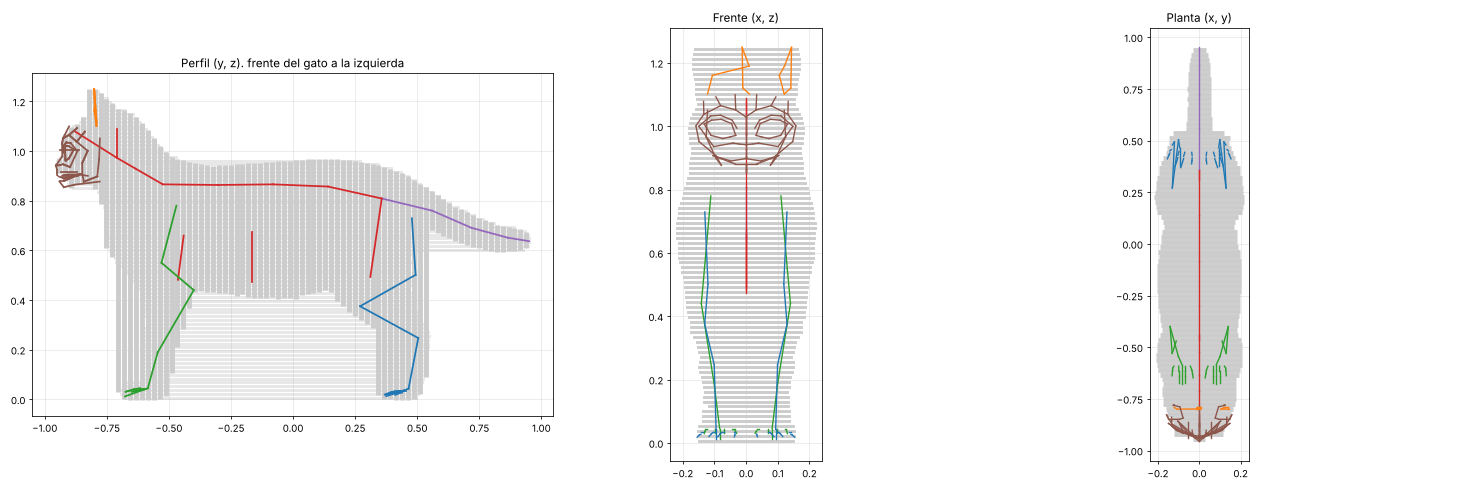
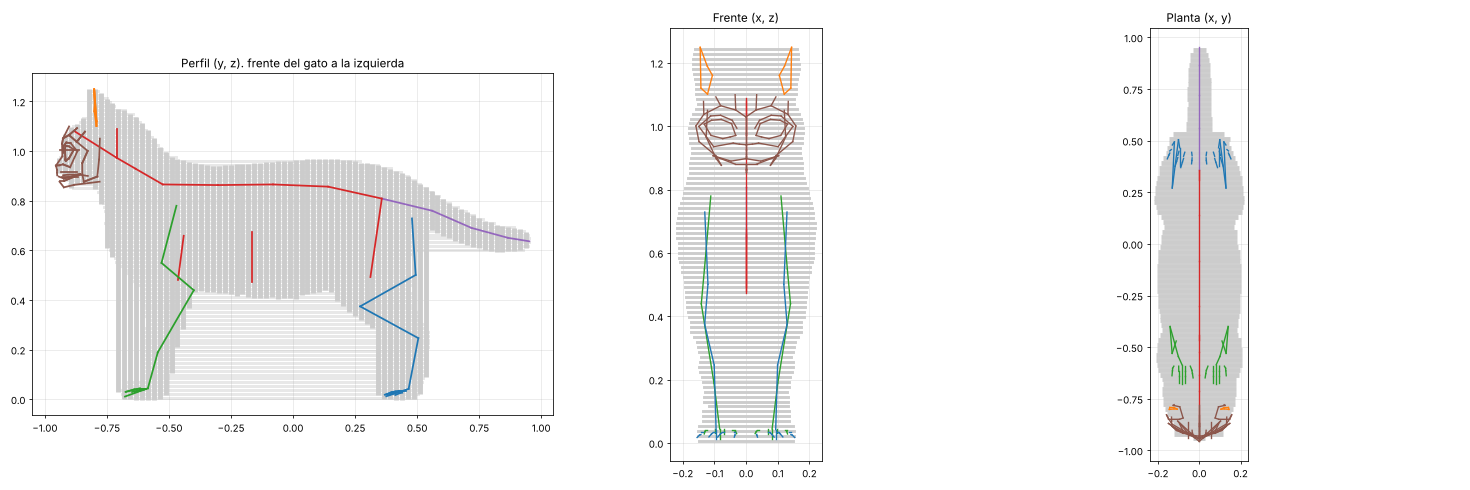
Fix R-side detection for ear/face bones, apply metarig scale, optional vertex group cleanup
Claude-Session: https://claude.ai/code/session_013zfeyfeaNn2DSKaXME39Nn

Changed region(s): [[0.0306, 0.8265, 0.3673, 0.8571], [0.4592, 0.1224, 0.5204, 0.1531], [0.7959, 0.8265, 0.8265, 0.8571]]

diff --git a/rigify_cat_fit.py b/rigify_cat_fit.py
@@ -33,6 +33,12 @@ TARGET_NAME = "metarig"   # armature a ajustar
 MESH_NAMES = ["Mao"]      # si existe, se usa su bounding box para escalar/mover
 # Solo en modo sin interfaz: "" = <archivo>_fitted.blend, o una ruta concreta.
 OUTPUT_BLEND = ""
+# El metarig de tu archivo tiene escala 3.08 y una rotacion leve. Rigify genera
+# mejor con la escala en 1: True = aplicar escala y rotacion (Ctrl+A) antes de ajustar.
+APPLY_ARMATURE_TRANSFORM = True
+# Mao trae 25 grupos de vertices de un skin anterior (feet_R, Bone.001, tail1...).
+# Chocan con los DEF-* de Rigify al hacer el bind. True = borrarlos.
+CLEAR_OLD_VERTEX_GROUPS = False
 
 # ---------------------------------------------------------------------------
 # Medidas del mesh de referencia (de mao_unrigged_medidas.json)
@@ -141,9 +147,11 @@ def _region(name):
 
 
 def _side(name):
-    if name.endswith(".R"):
+    """Lado segun el token L/R en cualquier posicion: ear.R.001, lid.T.L.002, f_index.001.R."""
+    parts = name.split(".")
+    if "R" in parts:
         return "R"
-    if name.endswith(".L"):
+    if "L" in parts:
         return "L"
     return "C"
 
@@ -348,6 +356,11 @@ def run():
         transform = lambda p: p
         print("AVISO: no se encontro el mesh %s; se usan las coordenadas de referencia." % MESH_NAMES)
 
+    if CLEAR_OLD_VERTEX_GROUPS:
+        for m in meshes:
+            print("Borrando %d grupos de vertices de '%s'" % (len(m.vertex_groups), m.name))
+            m.vertex_groups.clear()
+
     arm = bpy.data.objects.get(TARGET_NAME)
     if arm is None or arm.type != "ARMATURE":
         before = set(bpy.data.objects.keys())
@@ -358,7 +371,15 @@ def run():
         arm.hide_set(False)
     arm.hide_viewport = False
     if any(abs(v - 1.0) > 1e-6 for v in arm.scale) or any(abs(r) > 1e-6 for r in arm.rotation_euler):
-        print("AVISO: '%s' tiene escala o rotacion; aplicalas (Ctrl+A) si algo sale movido." % arm.name)
+        if APPLY_ARMATURE_TRANSFORM:
+            print("Aplicando escala %s y rotacion de '%s'" % (
+                tuple(round(v, 3) for v in arm.scale), arm.name))
+            bpy.ops.object.select_all(action="DESELECT")
+            arm.select_set(True)
+            bpy.context.view_layer.objects.active = arm
+            bpy.ops.object.transform_apply(location=False, rotation=True, scale=True)
+        else:
+            print("AVISO: '%s' tiene escala o rotacion; las posiciones se escriben en coordenadas de mundo." % arm.name)
 
     reference = build_reference()
     results, skipped = compute_fit(reference, transform)
